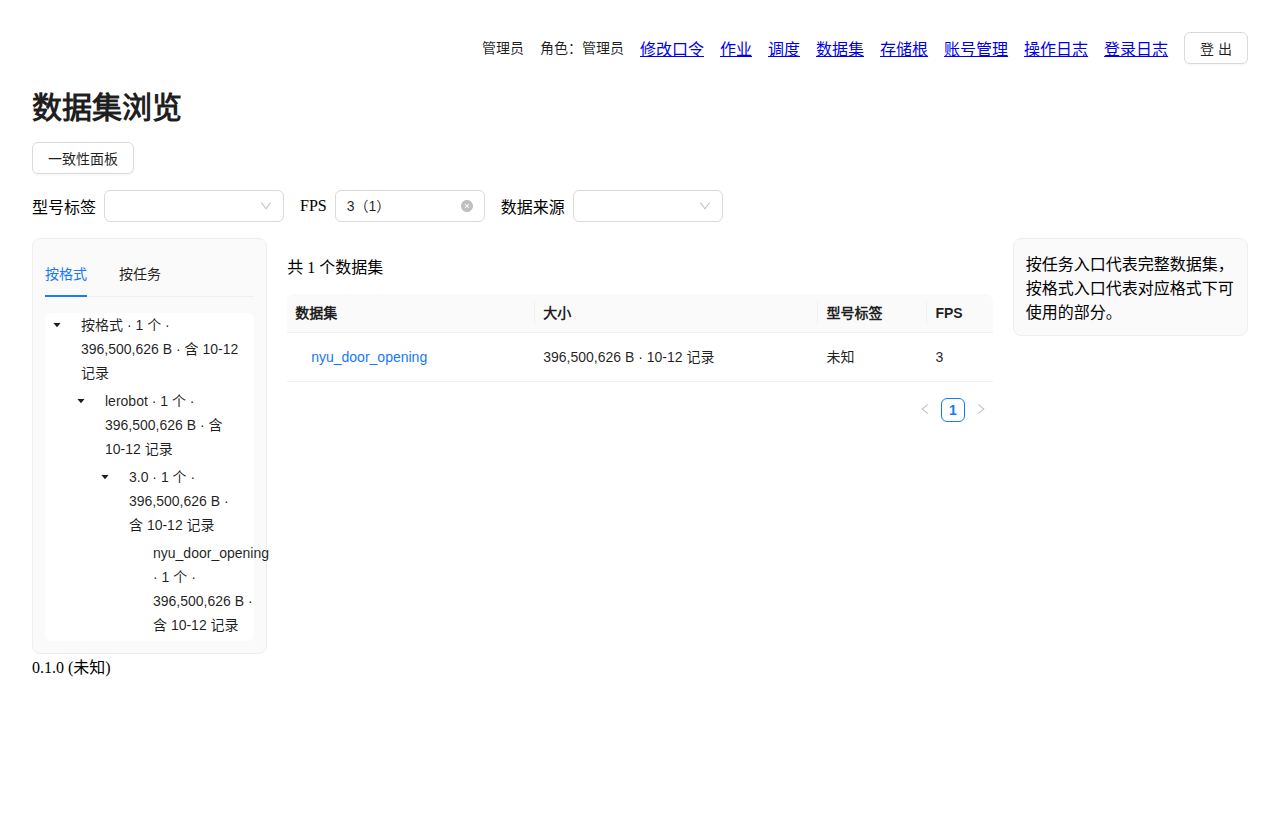
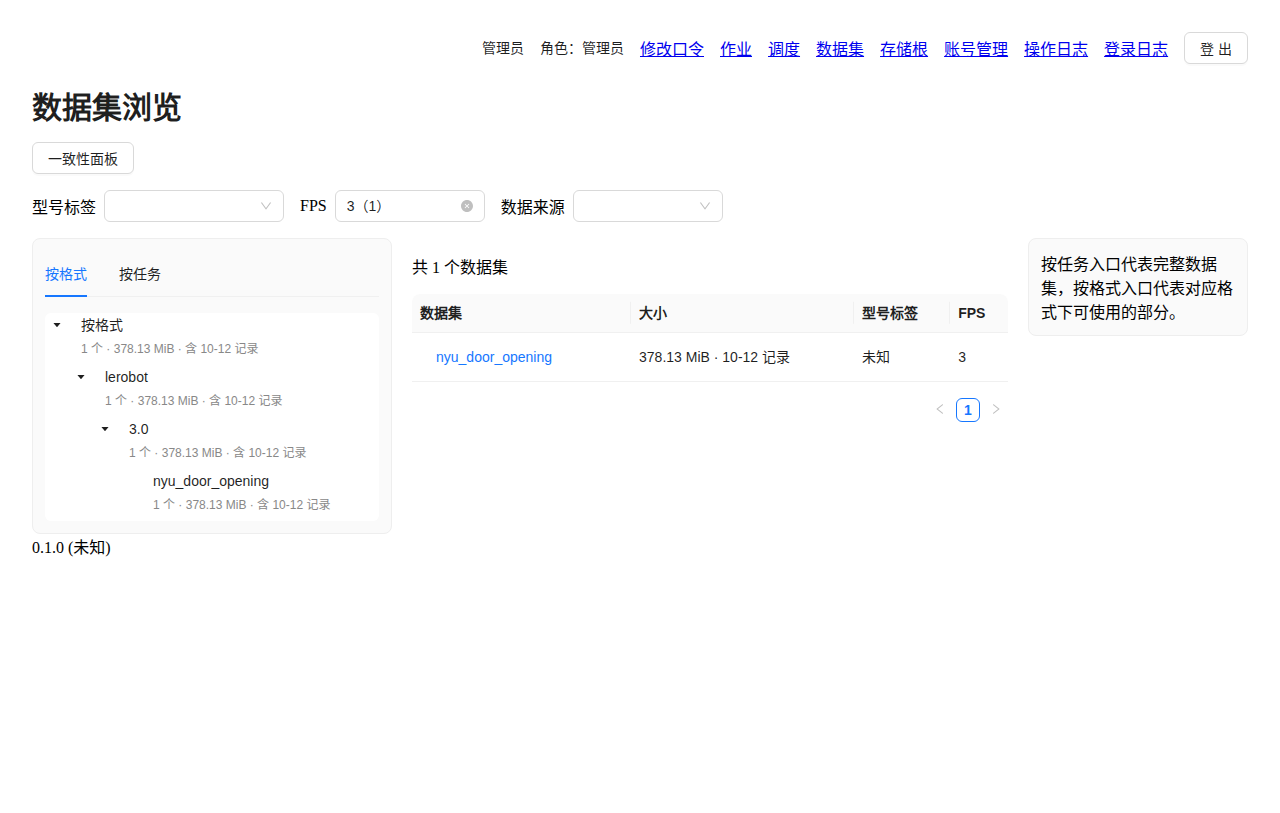
工单：M1 第 04 张评审与验收

diff --git a/.scratch/m1-datasets/issues/04-browser-widgets-layout-a.md b/.scratch/m1-datasets/issues/04-browser-widgets-layout-a.md
@@ -1,6 +1,6 @@
 # 浏览前端：共用部件与布局 A
 
-Status: in-progress
+Status: done
 
 分级：直做。理由：这是页面，规则和布局已经由「数据集浏览界面」（16）和原型定好；接口契约在第 03 张过了骨架关卡（3.0 第 1 条"页面"）。
 
@@ -86,3 +86,4 @@ Status: in-progress
 - 2026-10-29 08:57 开票（执行线，负责人授权）。第 03 张已合并（6ab55ae）。Status 改为 in-progress。直做，分两段交。派工 B（fast，新会话 `01a18829-a662-7780-9527-208fa1650869`，提示 `assets/04-browser-widgets-layout-a/prompt-B.md`）。和第 06 张并行。
 - 2026-10-29 09:33 前半段检查点交回（快照 `refs/rdp/m1-04/B-out1`），日志审计 0 条，Codex 自报 make check 全绿（Vitest 261 passed / 8 skipped），主入口 50.51 kB。**验收 1 真实浏览器演练失败**（`browser-drill.sh`、`browser-drill.mjs` → `browser-drill-run.log`）：正式构建的前端打开登录页一片空白。无头 Chrome 控制台报：`Uncaught TypeError: Cannot destructure property 'ESC' of 'h' as it is undefined.`，出在 `assets/ui-Btq1zqpx.js`。原因：本票在 vite.config.ts 里加了 rolldown codeSplitting，`ui` 分组设了 `maxSize: 700_000`，把 antd、rc-* 切成好几个块，块之间的初始化顺序错了，`rc-util` 的 KeyCode 还没定义就被解构了。Vitest 不经过打包，所以测不出来。导航层和两块数据盘都没有写入，web.log 没有 ERROR。打回第 1 轮：修拆包，并做完后半段。
 - 2026-10-29 10:16 第 1 轮修复加后半段交回（快照 `refs/rdp/m1-04/B-out2`），日志审计 0 条。去掉 ui.maxSize 后正式构建不再白屏；8 类验收补齐；Codex 自报三次 make check 全绿（2276 passed，Vitest 272）；主入口 50.27 kB。**验收 1 真实浏览器演练通过**（`browser-drill.sh`、`browser-drill.mjs` → `browser-drill-run.log`、`drill/m104-*.png`）：登录后 35 个数据集；两棵树；按型号标签 aloha 筛出 10 条、FPS=3 筛出 1 条，和接口一致；libero_10 详情能跨视图跳到按格式入口；14 MB 子任务.json 0.41 秒显示出来，长任务 0 个；一致性面板正常；"重新检查"提交后跳到作业 5，状态 completed。演练脚本有几处是执行线自己写错的：limit=200 超过了接口上限 100；列表分页后第一页看不到 libero_10，改用页面自己的 `?selected=` 参数打开；按钮文字匹配要去掉空格。这些都已改，不是页面缺陷。/mnt 和两块盘都没有写入。web.log 剩 1 条 ERROR，是 M0 遗留的未登录 401 噪音（第 13 张）。main 合进本分支，没有冲突，全量检查全绿（2288 passed，Vitest 273），已提交。**看截图发现的两处体验问题，打回第 2 轮（改由 Sonnet 做）**：(1) 树和详情里的大小都显示原始字节，例如 `35,769,634,510,578 B`，应换算成 TB、GB 这样的单位，精确字节数放进悬停提示；(2) 左侧树那一栏太窄，名字被截断、换行混乱，1280 宽的屏幕上还出现了横向滚动条。
+- 2026-10-29 18:00 第 2 轮交回（Sonnet）：共用的 `formatBytes`（1024 进制，B 到 TiB，精确字节数放悬停提示，未知显示"未知"，不显示 0）；树节点改成两行，名字过长时用省略号截断；详情页 4 张表都在自己的容器里横向滚动。执行线重跑真实浏览器演练（`browser-drill-run.log`、`drill/m104-*.png`），DRILL PASS：大小显示成 32.53 TiB 这样的写法；1280×900 下 scrollWidth=1265，等于 clientWidth，没有横向滚动条；14 MB 子任务 0.41 秒、长任务 0 个。/mnt 和两块盘都没有写入。前端变异抽查 2 处都被发现（`mutation_probe-r2.txt`）。验收 1–7 全部满足。按负责人授权合并。使用手册"数据集"一节等第 05 张做完再写。
